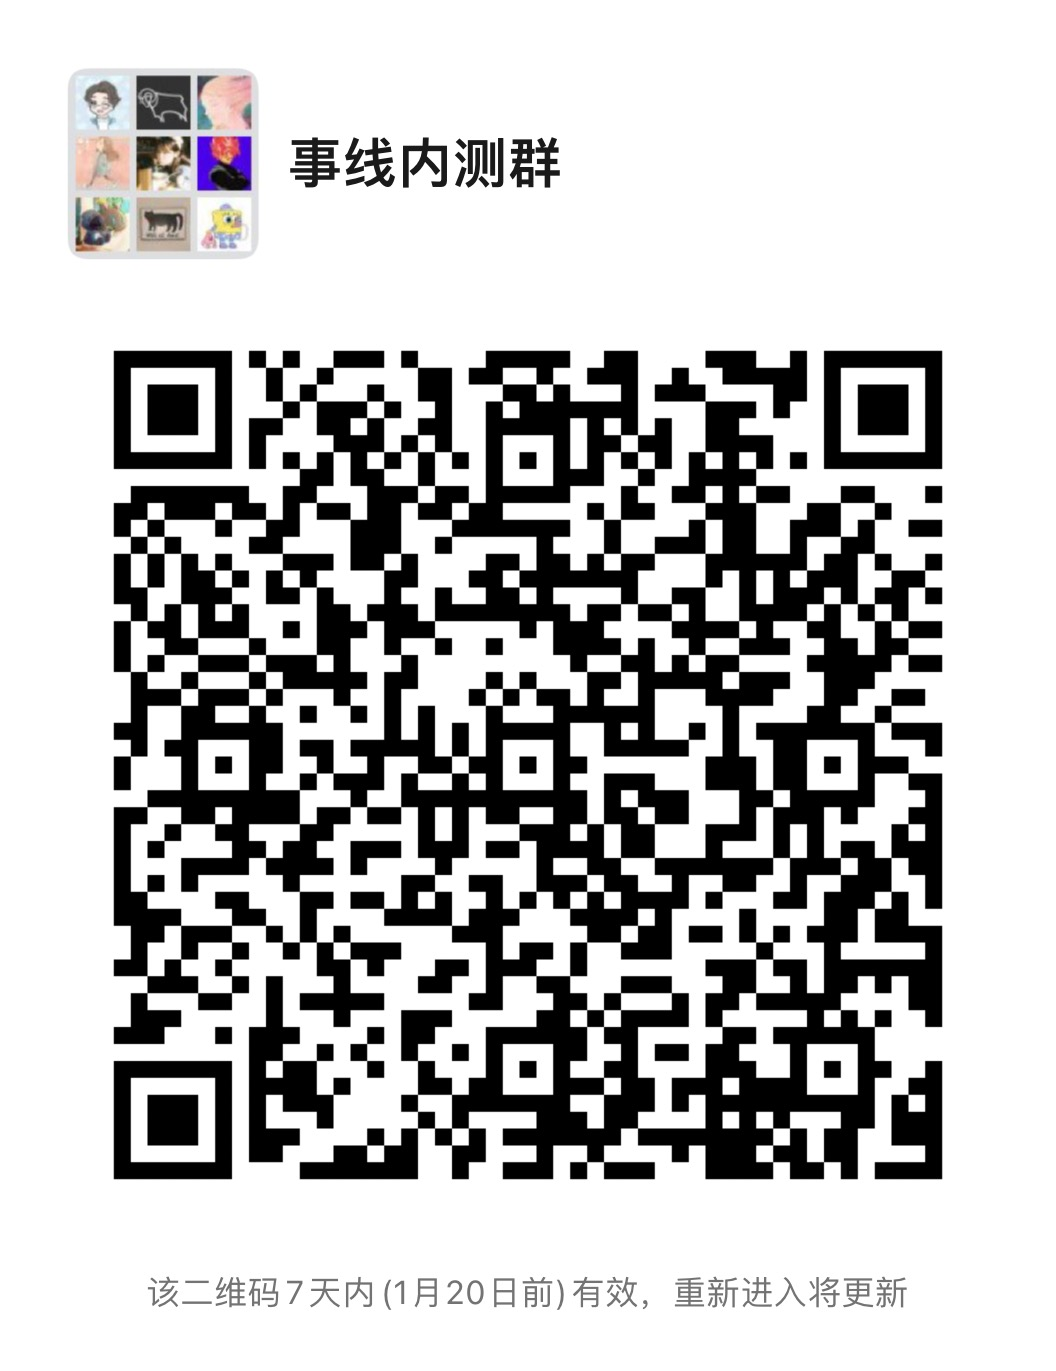
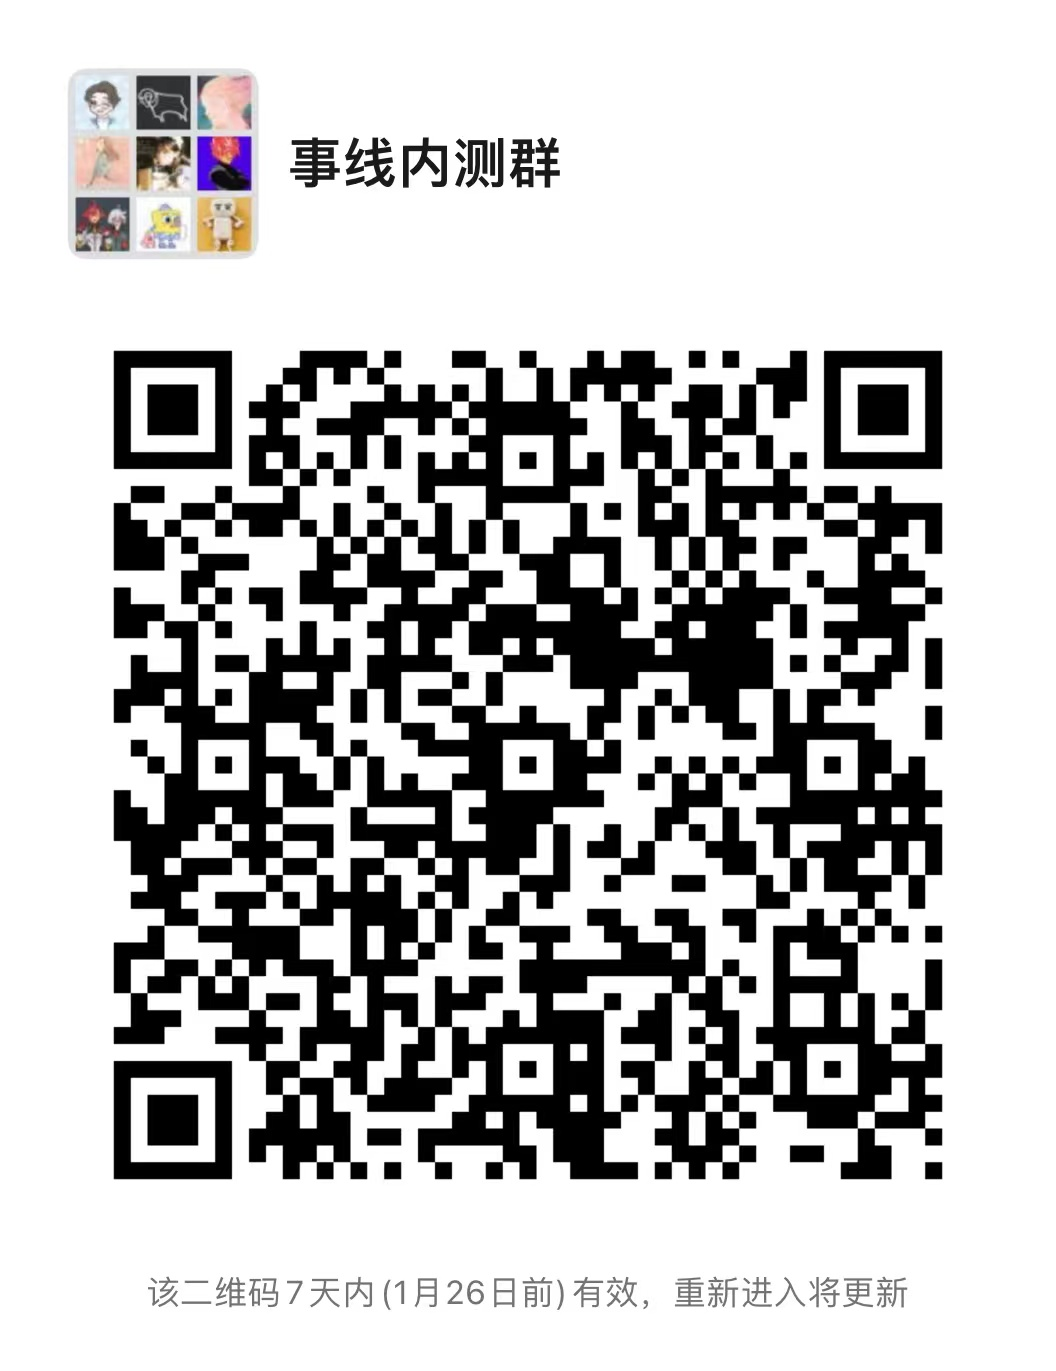
a

Changed region(s): [[0.0938, 0.2451, 0.9062, 0.8578], [0.0625, 0.1225, 0.25, 0.1838]]

diff --git a/docs/.vuepress/config.js b/docs/.vuepress/config.js
@@ -22,7 +22,7 @@ module.exports = {
     nav: [
       { text: '首页', link: '/' },
       { text: 'About', link: '/about/' },
-      { text: 'iOS内测', link: 'https://testflight.apple.com/join/grxohdR3/' },
+      { text: 'App Store', link: 'https://apps.apple.com/cn/app/%E4%BA%8B%E7%BA%BF-%E4%B8%B2%E4%BA%8B%E6%88%90%E7%BA%BF/id1662454742' },
     ],
     sidebarDepth: 2, // 侧边栏显示深度，默认1，最大2（显示到h3标题）
     logo: '/img/logo.png', // 导航栏logo

diff --git a/docs/index.md b/docs/index.md
@@ -3,10 +3,10 @@ home: true
 heroImage: /img/logo.png
 heroText: 「 事线 」- 串事成线
 tagline: 一个多项目时间线记录工具
-actionText1: 加入内测
-actionLink1: https://testflight.apple.com/join/grxohdR3/
-actionText2: 用户分享墙
-actionLink2: /wall/
+actionText1: App Store
+actionLink1: https://apps.apple.com/cn/app/%E4%BA%8B%E7%BA%BF-%E4%B8%B2%E4%BA%8B%E6%88%90%E7%BA%BF/id1662454742
+actionText2: 更多介绍 →
+actionLink2: /about/
 bannerBg: none # auto => 网格纹背景(有bodyBgImg时无背景)，默认 | none => 无 | '大图地址' | background: 自定义背景样式       提示：如发现文本颜色不适应你的背景时可以到palette.styl修改$bannerTextColor变量
 
 features: # 可选的
@@ -26,16 +26,9 @@ features: # 可选的
 # 文章列表显示方式: detailed 默认，显示详细版文章列表（包括作者、分类、标签、摘要、分页等）| simple => 显示简约版文章列表（仅标题和日期）| none 不显示文章列表
 postList: none
 ---
-<!-- <p align="center">
-  <a class="become-sponsor" href="/pages/1b12ed/">支持这个项目</a>
-</p> -->
 
 
-  <!-- <div
-    class="body-bg"
-    :style="`background: url('/img/bg-dark.png') center center / cover no-repeat;`"
-  >
-  </div> -->
+
 
 
 
@@ -63,9 +56,9 @@ postList: none
 </style>
 
 
-<!-- ::: center
+::: center
 
-### 内测群
+### 用户群
 
 <img src="/img/vx.png" class="no-zoom" style="width:15rem;margin: 10px;border-radius: 15px;margin: 2rem 0;box-shadow: 0 0px 20px rgb(0 0 0 / 20%);">
 
@@ -73,7 +66,7 @@ postList: none
 
 微信群(如失效请添加vx `JL-SHSF` 邀请进群)
 
-::: -->
+:::
 
 
 <!-- AD -->

diff --git a/docs/01.pages/01.About/001.about.md b/docs/01.pages/01.About/001.about.md
@@ -4,6 +4,38 @@ date: 2023-01-14 22:05:42
 permalink: /about/
 ---
 
+::: cardList 4
+```yaml
+
+config:
+    target: _self
+    imgHeight: 10rem
+    objectFit: cover
+    lineClamp: 1
+
+data:
+
+- link: /pages/046916/
+  name: 常见问题
+  desc: FAQ
+
+- link: /wall/
+  name: 分享墙
+  desc: FAQ
+
+- link: /pages/f40d56/
+  name: 开发计划
+  desc: Dev Plan
+
+- link: /pages/16d8ae/
+  name: 用户群
+  desc: Dev Plan
+
+
+```
+:::
+
+
 ::: tip
 系统要求：iOS 15.0+
 :::

diff --git a/docs/01.pages/03.共建/002.用户群.md b/docs/01.pages/03.共建/002.用户群.md
@@ -1,0 +1,19 @@
+---
+title: 用户群
+date: 2023-01-19 18:05:32
+permalink: /pages/16d8ae/
+
+---
+
+
+::: center
+
+### 用户群
+
+<img src="/img/vx.png" class="no-zoom" style="width:15rem;margin: 10px;border-radius: 15px;margin: 2rem 0;box-shadow: 0 0px 20px rgb(0 0 0 / 20%);">
+
+<br>
+
+微信群(如失效请添加vx `JL-SHSF` 邀请进群)
+
+:::
